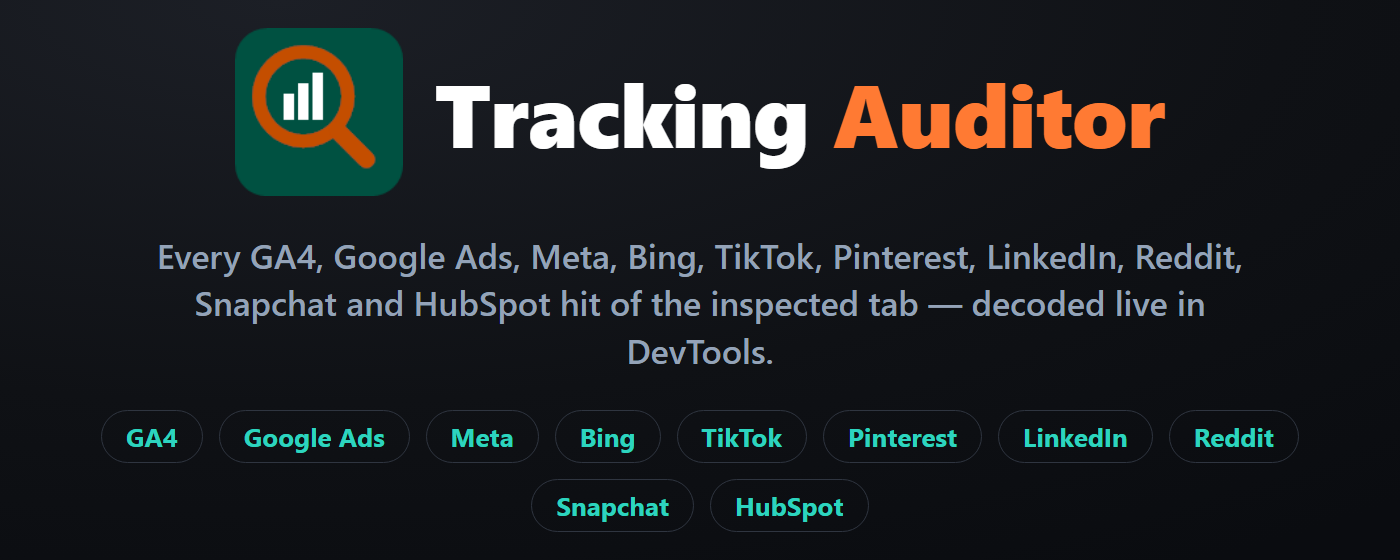
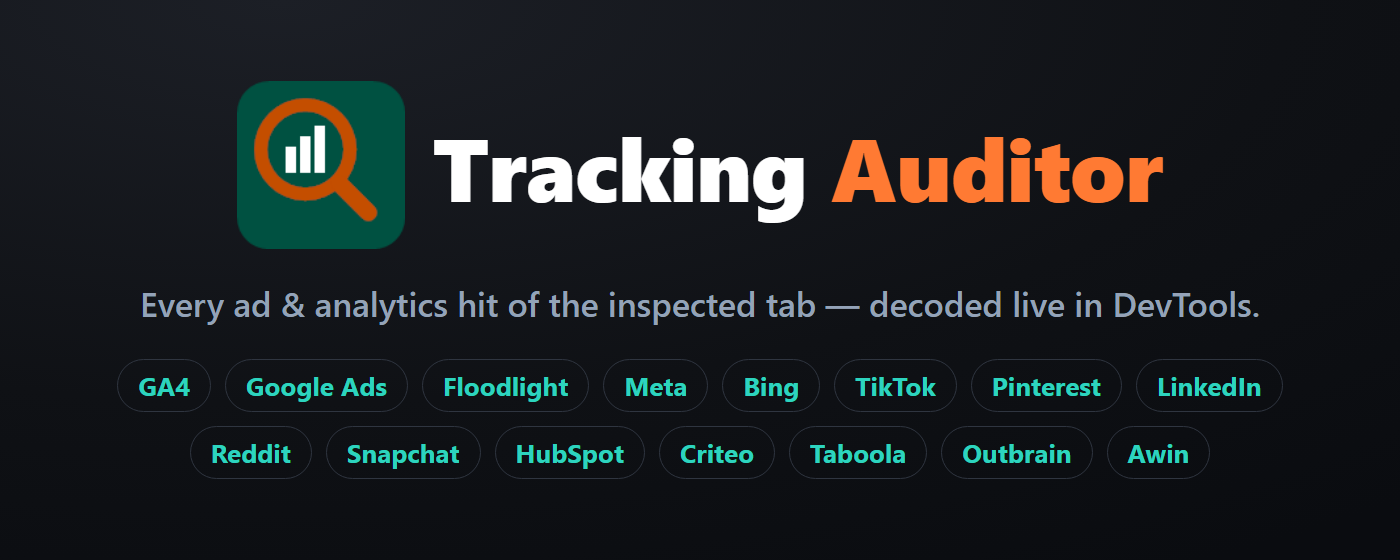
v1.0.0 release

Changed region(s): [[0.0921, 0.0304, 0.8907, 0.4857], [0.0921, 0.6071, 0.9214, 0.9411], [0.0921, 0.5161, 0.8907, 0.5768]]

diff --git a/scripts/generate-screenshots.js b/scripts/generate-screenshots.js
@@ -18,6 +18,21 @@ import { DEMO_BLOCKS } from './fixtures-demo.js';
 const root = dirname(dirname(fileURLToPath(import.meta.url)));
 const outDir = join(root, 'webstore');
 
+// The service list is read out of panel.js rather than restated here, so a new
+// provider shows up in the settings row, the filter bar and the promo tiles
+// without anyone remembering to edit this script.
+function readProviders() {
+  const src = readFileSync(join(root, 'panel.js'), 'utf8');
+  const order = src.match(/^const PROVIDER_ORDER = \[(.+?)\];/m);
+  const label = src.match(/^const PROVIDER_LABEL = \{(.+?)\};/m);
+  if (!order || !label) throw new Error('PROVIDER_ORDER / PROVIDER_LABEL not found in panel.js');
+  const keys = [...order[1].matchAll(/'([^']+)'/g)].map(m => m[1]);
+  const labels = Object.fromEntries([...label[1].matchAll(/(\w+):\s*'([^']+)'/g)].map(m => [m[1], m[2]]));
+  return keys.map(k => ({ key: k, label: labels[k] || k }));
+}
+
+const PROVIDERS = readProviders();
+
 const MIME = {
   '.html': 'text/html', '.js': 'text/javascript', '.json': 'application/json',
   '.png': 'image/png', '.svg': 'image/svg+xml', '.css': 'text/css',
@@ -38,11 +53,21 @@ function startServer() {
 
 // Stub the extension APIs panel.js touches, capture the network listeners so we
 // can replay HAR entries, and no-op storage/devtools so nothing throws.
-const STUB = () => {
+// Storage answers with every service recorded — the shots have to show the full
+// service list in the settings row and the filter bar, and the filter bar only
+// carries a pill for a service that is enabled or already seen. Four providers
+// ship default-off, so an empty storage would leave them out of the bar.
+const STUB = (providerKeys) => {
   window.chrome = window.chrome || {};
+  const saved = {
+    trackingAuditorSettings: {
+      record: Object.fromEntries(providerKeys.map(k => [k, true])),
+      filter: Object.fromEntries(providerKeys.map(k => [k, true])),
+    },
+  };
   window.chrome.storage = {
     local: {
-      get: (k, cb) => { if (typeof cb === 'function') cb({}); return Promise.resolve({}); },
+      get: (k, cb) => { if (typeof cb === 'function') cb(saved); return Promise.resolve(saved); },
       set: (o, cb) => { if (typeof cb === 'function') cb(); return Promise.resolve(); },
     },
   };
@@ -77,7 +102,7 @@ const EXPECTED_CARDS = DEMO_BLOCKS.reduce((n, b) => n + b.requests.length, 0);
 async function renderPanel(context, base, colorScheme) {
   const page = await context.newPage();
   await page.emulateMedia({ colorScheme });
-  await page.addInitScript(STUB);
+  await page.addInitScript(STUB, PROVIDERS.map(p => p.key));
   await page.goto(`${base}/panel.html`, { waitUntil: 'load' });
   await page.waitForFunction(() => window.__onRequest && window.__onNavigated);
   await page.evaluate(REPLAY, DEMO_BLOCKS);
@@ -91,28 +116,35 @@ async function renderPanel(context, base, colorScheme) {
 
 function promoHtml(iconDataUri, w, h) {
   const s = h / 280;   // scale type/icon to the tile height
-  // The small tile (440px) can't fit nine chips without overflowing under the
-  // three-line tagline, so it leans on the tagline alone to name the services;
-  // the marquee is wide enough for both.
-  const showChips = w >= 600;
+  // Both tiles now carry the full service list as chips, so the tagline no
+  // longer names services — fifteen names would run to four lines and the
+  // chips say it better anyway. At 440x280 the chips wrap to three rows, which
+  // only clears the bottom edge once the logo block and the gaps give way.
+  const wide = w >= 600;
+  const chipSize = wide ? 13 : 10;
+  const iconSize = wide ? 84 : 56;
+  const nameSize = wide ? 44 : 30;
+  const tagSize = wide ? 17 : 13;
+  const gap = wide ? 16 : 10;
+  const chips = PROVIDERS.map(p => `<span class="chip">${p.label}</span>`).join('');
   return `<!DOCTYPE html><html><head><meta charset="utf-8"><style>
     html,body{margin:0;height:100%;}
     .tile{width:${w}px;height:${h}px;display:flex;flex-direction:column;align-items:center;
-      justify-content:center;gap:${18 * s}px;box-sizing:border-box;padding:${24 * s}px;
+      justify-content:center;gap:${gap * s}px;box-sizing:border-box;padding:${18 * s}px;
       font-family:'Segoe UI',system-ui,sans-serif;text-align:center;
       background:radial-gradient(120% 120% at 20% 0%, #1c1f26 0%, #0f1115 60%, #0a0c10 100%);}
-    .logo{display:flex;align-items:center;gap:${16 * s}px;}
-    .logo img{width:${84 * s}px;height:${84 * s}px;}
-    .name{font-size:${44 * s}px;font-weight:800;color:#fff;letter-spacing:-0.5px;}
+    .logo{display:flex;align-items:center;gap:${14 * s}px;}
+    .logo img{width:${iconSize * s}px;height:${iconSize * s}px;}
+    .name{font-size:${nameSize * s}px;font-weight:800;color:#fff;letter-spacing:-0.5px;white-space:nowrap;}
     .name b{color:#ff7a33;}
-    .tag{font-size:${17 * s}px;font-weight:600;color:#94a3b8;max-width:${w * 0.82}px;line-height:1.4;}
-    .chips{display:flex;flex-wrap:wrap;gap:${8 * s}px;justify-content:center;}
-    .chip{font-size:${13 * s}px;font-weight:700;color:#2dd4bf;border:1px solid #2f3540;
-      border-radius:${999 * s}px;padding:${4 * s}px ${12 * s}px;}
+    .tag{font-size:${tagSize * s}px;font-weight:600;color:#94a3b8;max-width:${w * 0.86}px;line-height:1.35;}
+    .chips{display:flex;flex-wrap:wrap;gap:${7 * s}px;justify-content:center;max-width:${w * 0.9}px;}
+    .chip{font-size:${chipSize * s}px;font-weight:700;color:#2dd4bf;border:1px solid #2f3540;
+      border-radius:${999 * s}px;padding:${4 * s}px ${10 * s}px;white-space:nowrap;}
   </style></head><body><div class="tile">
     <div class="logo"><img src="${iconDataUri}"><div class="name">Tracking <b>Auditor</b></div></div>
-    <div class="tag">Every GA4, Google Ads, Meta, Bing, TikTok, Pinterest, LinkedIn, Reddit, Snapchat and HubSpot hit of the inspected tab — decoded live in DevTools.</div>
-    ${showChips ? '<div class="chips"><span class="chip">GA4</span><span class="chip">Google Ads</span><span class="chip">Meta</span><span class="chip">Bing</span><span class="chip">TikTok</span><span class="chip">Pinterest</span><span class="chip">LinkedIn</span><span class="chip">Reddit</span><span class="chip">Snapchat</span><span class="chip">HubSpot</span></div>' : ''}
+    <div class="tag">Every ad &amp; analytics hit of the inspected tab — decoded live in DevTools.</div>
+    <div class="chips">${chips}</div>
   </div></body></html>`;
 }
 

diff --git a/README.md b/README.md
@@ -8,166 +8,89 @@ A lightweight Chrome **DevTools** extension that records GA4, **Meta**, **Bing**
 transports that common debuggers miss:
 
 GA4:
-- Standard GA4 (`google-analytics.com` / `analytics.google.com`, `/g/collect`)
-- First-party sGTM / Google Tag Gateway (`/g/collect` / `/collect` with `v=2` & `tid=G-…`)
-- **Stape Custom Loader** (GA4 path base64-encoded inside a query parameter)
-- **taggrs Custom Loader** (AES-256-GCM-encrypted envelope, decrypted in-session with the loader's own key)
-- **Plaintext custom delivery paths** (cryptic path without `collect`, but `v=2` & `tid=G-…` & `en`)
-
-Meta (Facebook) Pixel:
-- Standard pixel (`facebook.com/tr`, GET beacon or form POST)
-- First-party proxied `/tr` on the site's own domain
-- Reads `ev`/`id`, custom data (`cd[…]`), advanced matching (`ud`/`udff`/`cud`/`ncud`/`aud`
-  — masks kept, each field counted once), CAPI dedup (`eid`) and Limited Data Use (`dpo`)
-
-Bing / Microsoft UET:
-- Standard tag (`bat.bing.com/action` / `actionp`) and first-party proxied `/action`
-- Reads `ti`/`evt`, custom event `ec`/`ea`/`el`/`ev`, `gv`/`gc` revenue, `ecomm_*` fields,
-  enhanced-conversion identifiers from the `pid` querystring, and the `asc` consent
-  signal (granted/denied/**unset** — a missing signal is shown, not hidden)
-
-TikTok Pixel:
-- Standard pixel (`analytics.tiktok.com/api/v2/pixel` POST JSON, `/act` batch) and the
-  base64 transport (payload base64-encoded in `?analytics_message=`)
-- Reads `event`/`context.pixel.code`, advanced matching (`context.user` — email/phone/
-  external_id, hashed flag), e-commerce (`properties.value`/`currency`/`contents[]`),
-  Events API dedup (`event_id`), and TikTok's own data-quality verdict
-  (`signal_diagnostic_labels` + `_inspection.identity_params` — surfaced verbatim, e.g.
-  "phone invalid · invalid_country")
-
-Pinterest Tag:
-- Standard tag (`ct.pinterest.com/v3/` GET beacon, POST for large payloads). The
-  `/user` endpoint (subset only) is ignored.
-- Reads `tid`/`event` (with alias→canonical mapping), enhanced match (`pd` — em/ph/…
-  hashes + `pin_unauth`, `aem_eligible_list`), e-commerce (`ed.value`/`currency`/
-  `order_id`/`line_items[]`), custom `ed` fields, Conversions API dedup (`ed.event_id`)
-  and the `ad.is_eu` region flag
+- Standard GA4 
+- First-party sGTM / Google Tag Gateway 
+- Stape Custom Loader 
+- taggrs Custom Loader
+- Plaintext custom delivery paths 
 
 Google Ads:
-- Conversion (`googleadservices.com/pagead/conversion` · `/ccm/conversion`,
-  first-party `google.com/pagead/1p-conversion`), remarketing/audience
-  (`doubleclick.net/pagead/viewthroughconversion` · `google.com/rmkt/collect` ·
-  `/pagead/1p-user-list`), measurement (`google.com/ccm/collect`, `tid=AW-…`) and
-  enhanced-conversions UPD (`/pagead/form-data` · `/ccm/form-data`)
-- One user action fans out across many mirrored transports — they are folded into a
-  **single card per logical hit** (`×N transports`), anchored on the `AW-<id>`
-  conversion id (filter the log by `AW-…`, the bare id or a conversion label)
-- Reads conversion `label`/`bttype`/`value`/`currency_code`/`oid`, the hashed `em`
-  enhanced-conversions token (email/phone/name/address — hex **and** base64url),
-  dynamic-remarketing product `data` (`google_business_vertical`/`id`), line items,
-  and `gcs`/`gcd` consent. Pure Privacy-Sandbox / telemetry pings are filtered out.
+- Conversion 
+- remarketing/audience
+- enhanced-conversions UPD
+-  Shows dynamic-remarketing product data / line items, consent 
+- Multiple Requests are folded into a single card 
 
 Floodlight (Google Marketing Platform — CM360 / DV360):
-- The same DoubleClick infrastructure as Google Ads, but a distinct endpoint with
-  **matrix parameters** (`;`-delimited in the path, not a query string): the counter
-  `ad.doubleclick.net/activity` and its image mirror `<src>.fls.doubleclick.net/activityi`,
-  which share `(src,type,cat,ord)` and are folded into a **single card**.
-- Reads the Floodlight config id (`src`), the advertiser-defined activity **group** (`type`)
-  and **tag** (`cat`) verbatim, the ordinal (`ord`), tells a **counter** from a **sales**
-  activity (`cost`/`qty` → revenue), the custom variables (`u1..uN` — page url, product id,
-  …), the DoubleClick id (`auiddc`), the `~oref` page url, and `gcs`/`gcd`/`dma`/`npa`/`gpp`
-  consent. Custom vars are opaque, so only an unmistakable **cleartext email** (`@`) in a
-  `u*` is flagged as PII — hash-shaped ids are left alone to avoid false alarms.
+- counter / activity
+- sales 
+- Multiple Requests are folded into a single card 
+
+Bing / Microsoft UET:
+- Standard tag and first-party proxied `action`
+- Reads `asc` consent signal ("granted/denied" or "unset" to mark a missing asc signal)
+
+Meta (Facebook) Pixel:
+- Standard pixel GET or form POST)
+- All events 
 
 LinkedIn Insight Tag:
-- Standard beacon (`px.ads.linkedin.com/collect`), with the `px4` mirror (which adds
-  the encrypted-IP `e_ipv6`) folded into a **single card** — the richer mirror wins.
-- Reads the partner id (`pid`), tells a plain **PageView** from a **Conversion**
-  (`conversionId` present), and surfaces the page `url`, tag manager (`tm`) and the
-  `e_ipv6` IP hash. The `/attribution_trigger` endpoint (redundant) is ignored.
-- The hashed email (`hem`, SHA-256) does **not** ride in the `/collect` beacon — it
-  travels in a `base64(gzip(JSON))` `/wa/` POST body, decoded asynchronously (via
-  `DecompressionStream`) into its own card. That card surfaces the `signalType`, the
-  hashed email as a PII indicator, LinkedIn's first-party ad-tracking ids
-  (`liFatId`/`liGiant`) when present, and the full decoded payload. `/wa/` is the only
-  place LinkedIn's enhanced-conversions PII leaves the browser.
+- Standard beacon folded into a single card, 
+- page views 
+- conversions
+- Enhanced-conversions POST with hashed email, click ids
 
-Reddit Pixel:
-- Browser beacon (`alb.reddit.com/rp.gif`). Reads the pixel id (`id`, `a2_…`), the event
-  (PageVisit / Purchase / Lead / …, custom name in `m.customEventName`) and the
-  conversion data (`m.value` / `m.valueDecimal` / `m.currency` / `m.transactionId`).
-- Surfaces both manually-set (`em` / `pn` / `external_id`) and auto-collected
-  (`auto_em` / `auto_pn`) hashed identifiers as advanced-matching / auto-match indicators —
-  this beacon is the only place the Reddit Pixel sends user data.
+TikTok Pixel:
+- Standard pixel 
+- All events
+- Advanced matching, data quality 
+
+Pinterest Tag:
+- Standard tag 
+- All events
+- Enhanced match 
+
+Reddit Pixel: 
+- All events 
+- Conversion data 
+- Both manual and auto-collected hashed identifiers
 
 Snapchat Pixel:
-- Event beacon (`tr.snapchat.com/p`). The `GET /p` hit is the tracking event; the
-  `POST /p` telemetry (context, form-field detection, no identifiers) is ignored.
-- Reads the pixel id (`pid`), the event (`PAGE_VIEW` / `PURCHASE` / …) and e-commerce
-  (`e_pr` / `e_cur` / `e_tid` / `e_iids` / `e_bds` + purchase extras like
-  `client_deduplication_id`, `customer_status`, `success`).
-- Surfaces the full hashed identifier set — email, phone, name, **and geo (city, country,
-  postal, region) and age**, which Snapchat also hashes — as advanced-matching indicators.
+- All events 
+- full hashed identifier set — email, phone, name, geo and age 
 
 HubSpot:
-- Tracking-code beacons (`track(-<region>).hubspot.com`): `__ptq.gif` (page view),
-  `__ptbe.gif` (custom behavioral event — name in `n`, properties as `_<name>`) and
-  `__ptc.gif` (click / interaction, target described by `_hs_*`). Account = hub id (`a`).
-- **Collected Forms** (`forms(-<region>).hscollectedforms.net/collected-forms/submit/form`,
-  POST JSON): HubSpot scraping a filled form and shipping `contactFields` and every
-  submitted `formValues` field. Account = `portalId`.
-- Identity data travels in **cleartext** (HubSpot does not hash) — the `identify()`
-  payload in the doubly-encoded `i` param on any beacon, or the form's `contactFields`
-  (email / name / phone). The PII block reports it honestly as **"not hashed"**. Loader/
-  config/analytics scripts and form counters are not tracking hits and are ignored.
+- Pageview 
+- Custom events
+- Automatic collection 
+- Collected forms
+- Identity data (email / name / phone). 
 
 Criteo:
-- OneTag event beacon (`sslwidget.criteo.com/event`). The account is the Criteo id (`a`).
-  Identity-sync (`gum.criteo.com`) and loader (`dynamic.criteo.com`) requests are not
-  tracking hits and are ignored.
-- Decodes the `p0..pN` event slots — a hit bundles several (`exd`/`dis` technical, plus the
-  real event: `vh` view home, `vl` view list, `vp` view item, `vb` view basket, `ac` add to
-  cart, `vc` transaction, `trackleads` lead, …). The primary event is surfaced; unknown codes
-  are kept verbatim. Reads the (double-encoded) item array (`id`/`price`/`quantity`), the
-  category, the transaction id, and derives a revenue total (Σ price × quantity, marked
-  **computed** since Criteo sends no total) with the `c` currency.
-- **`setEmail` (`ce`) ships the email address in CLEARTEXT** (not hashed) — surfaced as a
-  "cleartext email" indicator and reported in the PII block as "not hashed". The shared
-  cross-vendor cookies (`sc`, e.g. `fbp`) and `cs`/`gpp` consent are surfaced too.
+- OneTag event beacon 
+- All events 
+- Reads (double-encoded) item array and derives a revenue total (Σ price × quantity, marked
+  "computed" 
+- Email
+- Shared cross-vendor cookies 
+- Consent 
 
 Taboola:
-- Pixel beacons to `trc.taboola.com` (loader `cdn.taboola.com/libtrc/unip/<account>/tfa.js`).
-  The account is the numeric Taboola id; the loader, `pips`/`cds`/`sync-*` id-sync and
-  `p3p.xml` are not tracking events and are ignored.
-- Two shapes: the **page view** `GET /<account>/trc/3/json?data=<JSON>` (the event rides
-  inside the URL-encoded `data` JSON as `data.mpvd.en`), and **events**
-  `GET /<account>/log/3/<action>?en=<event>` (page view · view_content · add_to_cart ·
-  start_checkout · make_purchase · lead · complete_registration · …, custom names kept
-  verbatim). A conversion adds flat `revenue` / `currency` / `orderid` / `quantity`.
-- Surfaces the user id (`ui`), page (`item-url`) / referrer and consent verbatim (the TCF
-  `tcs` string — shown, not decoded — plus US-privacy `ccpaPs` and the CMP name `cbp`).
-  Taboola tracks by cookie/id, and carries a hashed-email identity when configured:
-  AudienceMatch's `unified_id` (SHA-256 of the lower-cased email) rides as a flat
-  `unified_id` query param on the request — surfaced as a hashed **Email** identifier
-  in the PII block. The `pre_d_eng_tb` engagement ping (time-on-site / scroll) is
-  flagged as telemetry, not a real event.
+- Pixel beacons / page view
+- All events
+- Consent 
+- Hashed email
 
 Outbrain:
-- The conversion pixel (`obApi`) fires a `GET` to `tr.outbrain.com/unifiedPixel`
-  (loader `amplify.outbrain.com/cp/obtp.js`). The account is the `marketerId`; the
-  loader, `wave`/`my`/`sync` hosts are not tracking events and are ignored.
-- Reads the event `name` — `PAGE_VIEW` (automatic) plus other events, classified as a
-  documented **standard** name (Purchase / AddToCart / Lead / ViewContent / …) or an
-  advertiser **custom** name, kept verbatim (a "conversion" is a mapping in Outbrain's
-  UI, not a property of the pixel fire) — the page (`dl`) /
-  referrer / previous page (`pRef`), the channel it fired through (`cht`, e.g. `gtm`),
-  the region (`zone`) and the API / pixel build (`obApiVersion` / `obtpVersion`). A
-  client-side conversion carries `orderValue` / `currency` / `orderId`.
-- No hashed PII or consent signal rode the captured hits (Outbrain offers hashed
-  matching in some setups; if it appears it is surfaced, never guessed).
+- Page View
+- All events
+- Conversion pixel
 
-Awin (affiliate):
-- The MasterTag (`www.dwin1.com/<MID>.js`, MID = advertiser/merchant id) fires to
-  `www.awin1.com`. The **sale** (`sread.img` / `sread.php` / `sread.js`) fans out across
-  transports + whitelabel mirror domains, all sharing `(merchant, orderRef)` — folded
-  into a **single card**. Two parameter namings are handled: long (`merchant` / `amount`
-  / `ref` / `parts` / `testmode`) and short (`a` / `b` / `c` / `d` / `t`).
-- Reads the amount / currency, order reference, channel (`ch`), voucher, test flag, and
-  the commission split `parts` (`group:amount`, `|`-separated, e.g. `01:22|02:12,50`).
-- **Product-level tracking** (`basket.php`, `product_line`) is decoded into a product
-  table (id / name / price / qty / sku / commission group / category), with a derived
-  basket total. The affiliate landing tag (`alt.php`) and empty template beacons are
-  handled too. No hashed PII rides these requests. The MasterTag loader is ignored.
+Awin:
+- MasterTag 
+- Sale
+- Product-level tracking
+
 
 It adds a **"Tracking Auditor"** tab to DevTools. Hit **Start & Reload** — the
 page reloads and every hit is listed in blocks per navigation, **newest first**, with
@@ -224,37 +147,32 @@ If you want to modify the extension or run an unreleased version, load it unpack
 
 ## Changelog
 
-### 1.0.0
-First public release. Fifteen providers covered — GA4, Google Ads, Floodlight, Meta, Bing UET, TikTok, Pinterest, LinkedIn, Reddit, Snapchat, HubSpot, Criteo, Taboola, Outbrain and Awin — with custom-loader / base64 / first-party transport decoding, service-worker Deep Capture, the cross-provider PII / user-data block, and transport fan-out folded into one card per logical hit.
-- **Color-code cards toggle** (Advanced, on by default): the per-provider card tints are a quick scan aid, but at full build a mixed stream turns busy. Turn the toggle off to give every card the neutral background — the provider pills still carry the color — which reads steadier when you compare more than a few services. Persisted per install.
-- **Robustness hardening**: each parser now runs isolated, so a malformed / adversarial payload can no longer throw and drop the hit (or abort a capture import); Bing UET names a hit by its `evt` (e.g. `pageHide`) instead of a generic "custom event"; Deep Capture no longer leaks a service-worker hit from one inspected tab into another's capture.
-- **Awin** (affiliate): detects the Awin MasterTag's tracking (`www.awin1.com`; loader `www.dwin1.com/<MID>.js` = advertiser id). The **sale** (`sread.img`/`sread.php`/`sread.js`) fans out across transports and whitelabel mirror domains sharing `(merchant, orderRef)` → folded into one card; both the long (`merchant`/`amount`/`ref`/`parts`/`testmode`) and short (`a`/`b`/`c`/`d`/`t`) parameter namings are handled. Reads amount / currency / order reference / channel / voucher / test flag and the commission split `parts` (`group:amount`, `|`-separated). **Product-level tracking** (`basket.php` `product_line`) is decoded into a product table (id/name/price/qty/sku/commission group/category) with a derived basket total; the `alt.php` landing tag and empty template beacons are handled. No hashed PII. Off by default. Violet pill.
-- **Outbrain** (native ads): detects the `obApi` conversion pixel `GET tr.outbrain.com/unifiedPixel` (loader `amplify.outbrain.com/cp/obtp.js`; the `wave`/`my`/`sync` hosts are ignored). Account = `marketerId`. Reads the event `name` — `PAGE_VIEW` (automatic) plus other events classified as standard (Purchase / AddToCart / Lead / ViewContent / …) or custom advertiser names, verbatim — page (`dl`) / referrer / previous page (`pRef`), channel (`cht`), region (`zone`) and API / pixel build; an event fired client-side with a value carries `orderValue` / `currency` / `orderId`. No hashed PII / consent on the captured hits. Built against real posterlounge captures (PAGE_VIEW native, conversions fired via `obApi('track', …)`). Sits next to Taboola as the native-ads pair. Rose pill.
-- **Taboola** (native ads): detects the `trc.taboola.com` pixel — the page view `GET /<account>/trc/3/json?data=<JSON>` (event inside the URL-encoded `data` JSON at `data.mpvd.en`) and the events `GET /<account>/log/3/<action>?en=<event>` (view_content / add_to_cart / start_checkout / make_purchase / lead / complete_registration / …, custom names verbatim), with a conversion's flat `revenue` / `currency` / `orderid` / `quantity`. Surfaces the user id (`ui`), page / referrer and consent verbatim (TCF `tcs` shown-not-decoded, US-privacy `ccpaPs`, CMP `cbp`). Cookie/id based; Taboola's hashed-email identity (AudienceMatch `unified_id`, SHA-256 of the email) rides as a flat `unified_id` query param and is surfaced as a hashed Email in the PII block; the `pre_d_eng_tb` engagement ping is flagged as telemetry. The loader / id-sync / p3p are ignored. Deep-cyan pill.
-- **Floodlight** (Google Marketing Platform — CM360 / DV360): detects Floodlight activity fires — the counter `ad.doubleclick.net/activity` and its image mirror `<src>.fls.doubleclick.net/activityi`, which carry **matrix parameters** (`;`-delimited in the path, not a query string) and share `(src,type,cat,ord)`, so the two are folded into a **single card**. Reads the Floodlight config id (`src`), the advertiser-defined activity group (`type`) and tag (`cat`) verbatim, the ordinal (`ord`), tells a **counter** from a **sales** activity (`cost`/`qty` → revenue), the custom variables (`u1..uN`), the `~oref` page url, the DoubleClick id (`auiddc`) and `gcs`/`gcd`/`dma`/`npa`/`gpp` consent. Custom vars are opaque, so only an unmistakable cleartext email in a `u*` is flagged as PII (hash-shaped ids are left alone). Positioned right after Google Ads (same DoubleClick infrastructure). Mint-green pill.
-- **Criteo** (OneTag): detects the `sslwidget.criteo.com/event` beacon (account = `a`; the `gum.`/`dynamic.` identity-sync & loader requests are ignored). Decodes the `p0..pN` event slots (technical `exd`/`dis` plus the real event — `vh`/`vl`/`vp`/`vb`/`ac`/`vc`/`trackleads`/…, unknown codes kept verbatim), the double-encoded item array (`id`/`price`/`quantity`), the category, the transaction id, and a **computed** revenue total (Σ price × quantity — Criteo sends no total) with the `c` currency. **`setEmail` (`ce`) ships the email in CLEARTEXT** — surfaced as a "cleartext email" indicator and reported in the PII block as "not hashed"; the shared cross-vendor cookies (`sc`, e.g. `fbp`) and `cs`/`gpp` consent are surfaced too. Criteo-blue card tint.
-- **taggrs Custom Loader decryption**: taggrs (a Stape alternative) proxies GTM/gtag through a first-party sGTM host and encrypts the real request, so the network tab shows only an opaque envelope (a `{"m","u"}` POST, or `?p=<iv>:<ct>`). The cipher is AES-256-GCM with the key hardcoded in the loader JS, so the panel sniffs that key once per host from the loader body (read via the DevTools response body — no new permission), decrypts the envelope in-session, and runs the plaintext through the normal parser registry. The hidden hit then shows up as an ordinary GA4/… card marked with a **taggrs** transport pill (the same slot as Stape b64); its detail shows the decrypted request alongside the encrypted original (proxy endpoint + the `iv:ct` cipher blobs). Hits that race ahead of the loader key are buffered and flushed once it lands. POST envelopes only — the `?p=` GET transport carries proxied scripts, not hits.
-- **First-party is positively confirmed, never inferred**: previously any hit whose host wasn't on a provider's vendor allowlist was labelled "first-party" by elimination — which mislabelled `pagead2.googlesyndication.com` (a Google host that was missing from the Ads list) and any GA4 / Meta / UET hit routed through a foreign sGTM vendor domain. A hit is now first-party only when its host shares the **inspected page's** registrable domain (eTLD+1, compared against the real page URL — not the hit's own `dl`, which it can set to anything). Otherwise the transport is "unknown" and wears no pill, because an unconfirmed transport shouldn't claim one — tracking behaves differently tomorrow than today. `googlesyndication.com` is now recognised as a Google Ads host.
+v1.0.0
+- first "complete" release also includes Floodlight (to fill the gap in the Google stack; default "on"), Criteo, Taboola, and Outbrain (default "off") and also Awin (probably the only affiliate network in this tool; default "off") as new services. If you want to debug any of them (except Floodlght), switch recording on first once.
+- taggrs Custom Loader detection and decryption
+- Optimized handling for first-party detection
+- new option to switch off background color-coding for different vendors
+ 
+v.0.9.0
+- added Hubspot tracking 
+- PII / user-data block in request details
+- Service-worker notice: detects the Google Tag Gateway first-party service-worker loader and shows a compact per-block strip — hits may be dispatched from the worker and stay invisible to the page-scoped DevTools network. UI-only (not a card), with a "mute for session" link.
+- Deep Capture (service-worker / edge hits): an opt-in mode that adds a second capture source via `chrome.webRequest` (in a new background service worker), catching tracking hits dispatched from a service worker's own scope — first-party Google Tag Gateway, Cloudflare edge, and Bing UET
+- Newest-first ordering: new hits and page-load blocks are inserted at the top instead of the bottom, so the freshest hit stays in view and Chrome's scroll anchoring keeps whatever you're reading in place. The **⤓ follow** auto-scroll toggle is removed as redundant. 
+- Meta silent-pixel warning: a pixel can initialise yet send no  tracking events occur — a silent tracking failure, typically caused by Meta's traffic-permission settings. 
+- GA4 e-commerce items: product params are decoded into readable fields 
 
-### 0.9.0
-- **HubSpot** (10th provider): detects HubSpot's tracking surfaces — the `track(-<region>).hubspot.com` beacons `/__ptq.gif` (page view), `/__ptbe.gif` (custom behavioral event, name in `n`, properties as `_<name>`) and `/__ptc.gif` (click / interaction, target described by `_hs_*`), plus the **Collected Forms** submit `POST` to `forms(-<region>).hscollectedforms.net/collected-forms/submit/form`. The account is the hub id (`a` / `portalId`). Identity data travels in **cleartext** (HubSpot does not hash) — via the doubly URL-encoded `i` param on any beacon, or as `contactFields` (email / name / phone) in the form submit — so the PII block reports it honestly as "not hashed", and the form's submitted `formValues` are shown verbatim. Loader/config/analytics scripts and form counters are not tracking hits and are ignored. Coral pill.
-- **PII / user-data block**: every request detail now carries one uniform "PII / user data" section across all providers. Each user-data field is shown as raw parameter · plain-language category (e.g. `u_hem` → Email, `l_city` → City) · detected hash form (SHA-256 / SHA-1 / MD5, base64url SHA-256 recognised). A terse inline note appears only when the detected form contradicts the algorithm the provider requires (e.g. an MD5-shaped value where SHA-256 is mandated); plaintext is stated plainly, without a leak alarm. Reads only — no plaintext comparison, no normalization, no hash validation.
-- **Deep Capture (service-worker / edge hits)**: an opt-in mode that adds a second capture source via `chrome.webRequest` (in a new background service worker), catching tracking hits dispatched from a service worker's own scope — first-party Google Tag Gateway, Cloudflare edge, and (as found in testing) Bing UET — which the page-scoped DevTools network feed never sees. These hits are de-duplicated against the DevTools feed (only what DevTools missed is ingested) and marked with a **⚡ service worker** badge, which the fulltext filter also matches. Off by default; the broad host permission is **optional** and requested at the moment you switch it on (from the toggle or the notice link), so nothing broad is granted at install. The service-worker notice now carries an **"enable Deep Capture"** link and flips to a green all-clear once on.
-- **Newest-first ordering**: new hits and page-load blocks are inserted at the top instead of the bottom, so the freshest hit stays in view and Chrome's scroll anchoring keeps whatever you're reading in place. The **⤓ follow** auto-scroll toggle is removed as redundant.
-- **Meta silent-pixel warning**: a pixel can initialise (its `signals/config` fetch fires) yet send no `/tr/` event — a silent tracking failure, typically caused by Meta's traffic-permission settings. When Meta recording is on, a 2-second timer per pixel id is armed on the config fetch; if no matching event follows, a single warning card is shown (a late event self-heals it). Network inference only, no new permissions.
-- **GA4 e-commerce items**: the tilde-packed `pr1..prN` product params are decoded into readable fields (item_id, item_name, brand, category1–5, variant, price, quantity, coupon, discount, index, list, promotion, creative, location) plus item-scoped custom `k<n>/v<n>` pairs. Unknown codes are surfaced, never dropped. Rendered as one sub-table per product with an "items ×N" pill.
-- **Service-worker notice**: detects the Google Tag Gateway first-party service-worker loader (`sw_iframe.html`) and shows a compact per-block strip — hits may be dispatched from the worker and stay invisible to the page-scoped DevTools network. UI-only (not a card), with a "mute for session" link.
+v0.7.2
+- Service-worker de-duplication: when a service worker (e.g. Cloudflare Zaraz) intercepts a page's `fetch()`, DevTools surfaces the hit twice — the aborted page-side request that never reached the network, plus the worker's real outgoing request. The aborted phantom (network error and no server connection) is now dropped, so each logical hit counts once.
 
-### 0.7.2
-- **Service-worker de-duplication**: when a service worker (e.g. Cloudflare Zaraz) intercepts a page's `fetch()`, DevTools surfaces the hit twice — the aborted page-side request that never reached the network, plus the worker's real outgoing request. The aborted phantom (network error and no server connection) is now dropped, so each logical hit counts once.
+v0.7.1
+- Added Reddit Pixel and Snapchat Pixel
+- The `/wa/` enhanced-conversions POST from LinkedIn is now decoded asynchronously into its own card with hashed email, Signal Type and collected IDs.
+- UI improvements
 
-### 0.7.1
-- **Show** filter row reworked from fixed checkboxes to compact toggle **pills**, built only for the services you actually record (or that already appear in the current/imported capture) — no toggle for a service you never capture.
+v0.7.0
+- Added Reddit Pixel provider 
+- LinkedIn: enhanced-conversions POST now decoded asynchronously into its own card 
 
-### 0.7.0
-- Added the **Reddit Pixel** provider (`alb.reddit.com/rp.gif`): event, conversion data (`m.*`), and both manual (`em`/`pn`/`external_id`) and auto-collected (`auto_em`/`auto_pn`) hashed identifiers.
-- Added the **Snapchat Pixel** provider (`tr.snapchat.com/p`): event, e-commerce (`e_*`), and the full hashed identifier set — email, phone, name, **geo and age** — with the `POST /p` telemetry beacon ignored.
-- **LinkedIn**: the `/wa/` enhanced-conversions POST (`base64(gzip(JSON))`) is now decoded asynchronously into its own card — hashed email, `signalType`, and `liFatId`/`liGiant`.
-
-### 0.6.0
-- Initial release: GA4, Meta Pixel, Bing UET, TikTok Pixel, Pinterest Tag, Google Ads and LinkedIn Insight Tag (standard `/collect`).
+v0.6.0
+- Initial release: GA4, Meta Pixel, Bing UET, TikTok Pixel, Pinterest Tag, Google Ads and LinkedIn Insight Tag.
